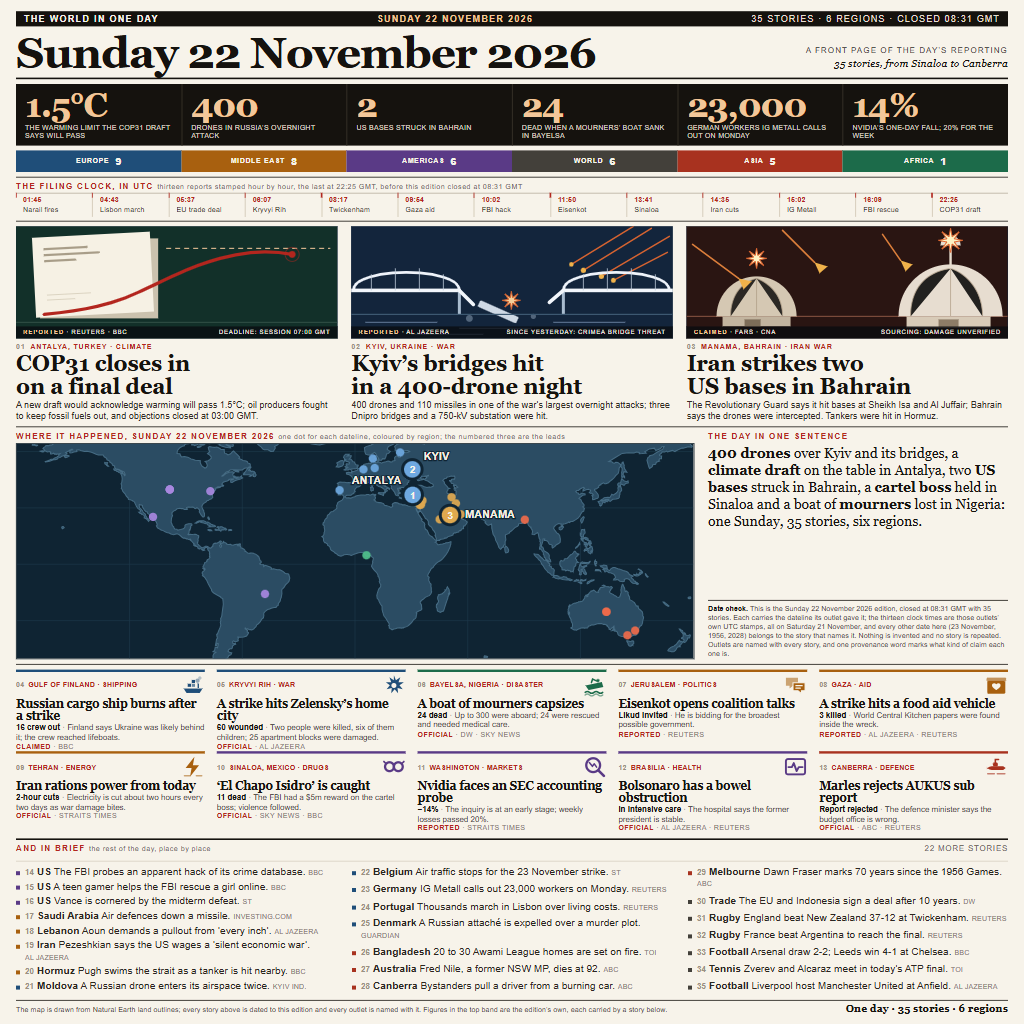
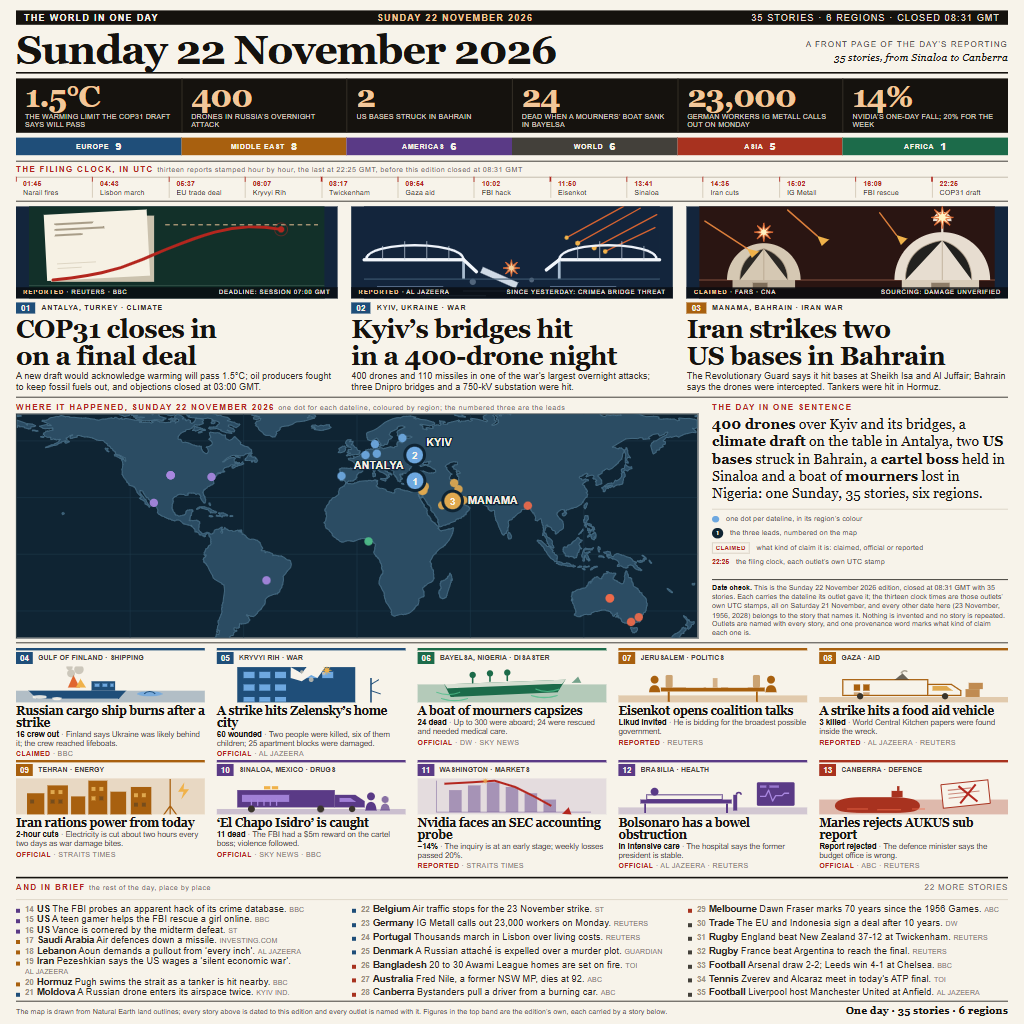
Round four: a drawn scene for each card, a taller map that fills its row, a key beside the sentence

diff --git a/README.md b/README.md
@@ -10,8 +10,10 @@ The page carries the whole edition, in order and numbered from 01 to 35:
 
 - a statistics band of six figures the edition itself prints, from the 1.5°C limit the COP31 draft says will pass to IG Metall's 23,000 workers;
 - a segmented region bar (Europe 9, Middle East 8, Americas 6, World 6, Asia 5, Africa 1) over the filing clock, thirteen UTC stamps hour by hour;
-- three leads with full-width drawn art above the headline, each panel carrying its own provenance band;
-- a dot map of all 35 datelines, the day in one sentence, ten cards each with a provenance word beside its source, and 22 briefs in three columns.
+- three leads with full-width drawn art above the headline, each panel carrying its own provenance band and a numbered, region-coloured kicker;
+- a dot map of all 35 datelines, the day in one sentence, a four-line key to reading the page, and the date check;
+- ten cards, each with its own flat illustration of that story — a burning cargo ship, a broken apartment block, a capsizing boat, a table set for talks, a food-aid van, a blacked-out skyline, an arrest van, a falling chart, a hospital bed, a submarine beside a rejected report — plus a provenance word beside its source;
+- 22 numbered briefs in three columns.
 
 ## Run it
 
